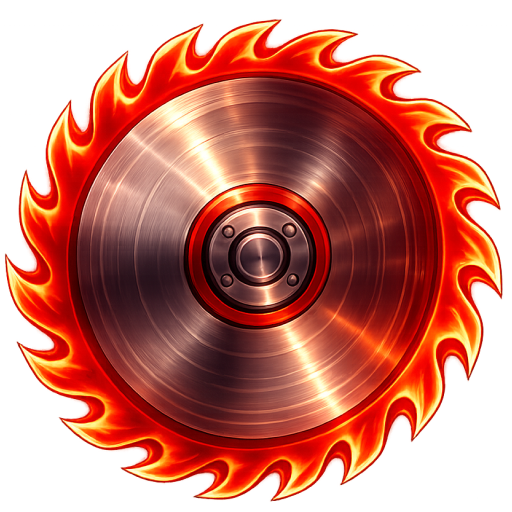
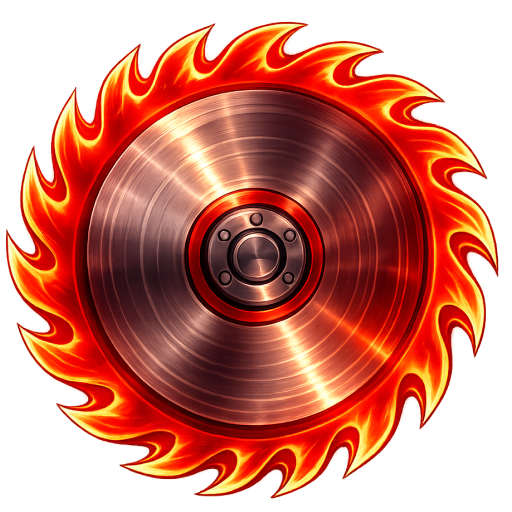
ノコギリの刃を少し大きく、当たり判定を見た目よりも大きく

diff --git a/app/src/main/java/io/numberrun/Game/Level/LevelSystem.java b/app/src/main/java/io/numberrun/Game/Level/LevelSystem.java
@@ -178,7 +178,7 @@ public class LevelSystem implements GameSystem {
                         LevelSystem.class.getResource("/images/saw_blade.png"),
                         sizePx, sizePx
                 ),
-                new LaneSize(0.25f, 0.25f),
+                new LaneSize(0.4f, 0.4f),
                 new LaneTransform(baseX, SPAWN_Y + yOffset)
                         // 横移動の上限をレーン内に制限（はみ出し防止）
                         .setMovementLimit(-0.45f, 0.45f, -0.5f, 1.0f),
@@ -198,7 +198,7 @@ public class LevelSystem implements GameSystem {
                         new Transform(),
                         new Text(
                                 "÷2", Color.WHITE, new Font("SansSerif", Font.BOLD, 96), 0, Color.BLACK, 6f
-                        ).withZOrder(2) // ホイールは刃よりも上に描画して回転しない
+                        ).withZOrder(2) // 触れたときに割られることを明示
                 )
         );
 
